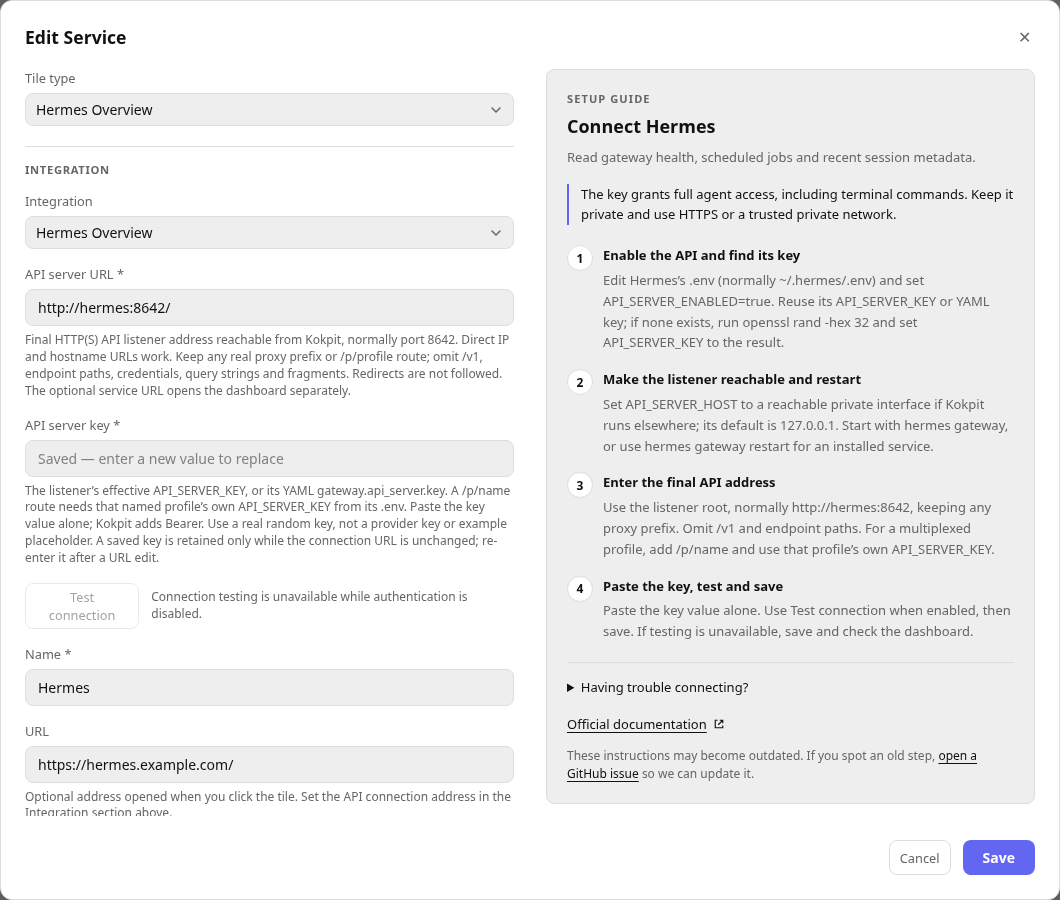
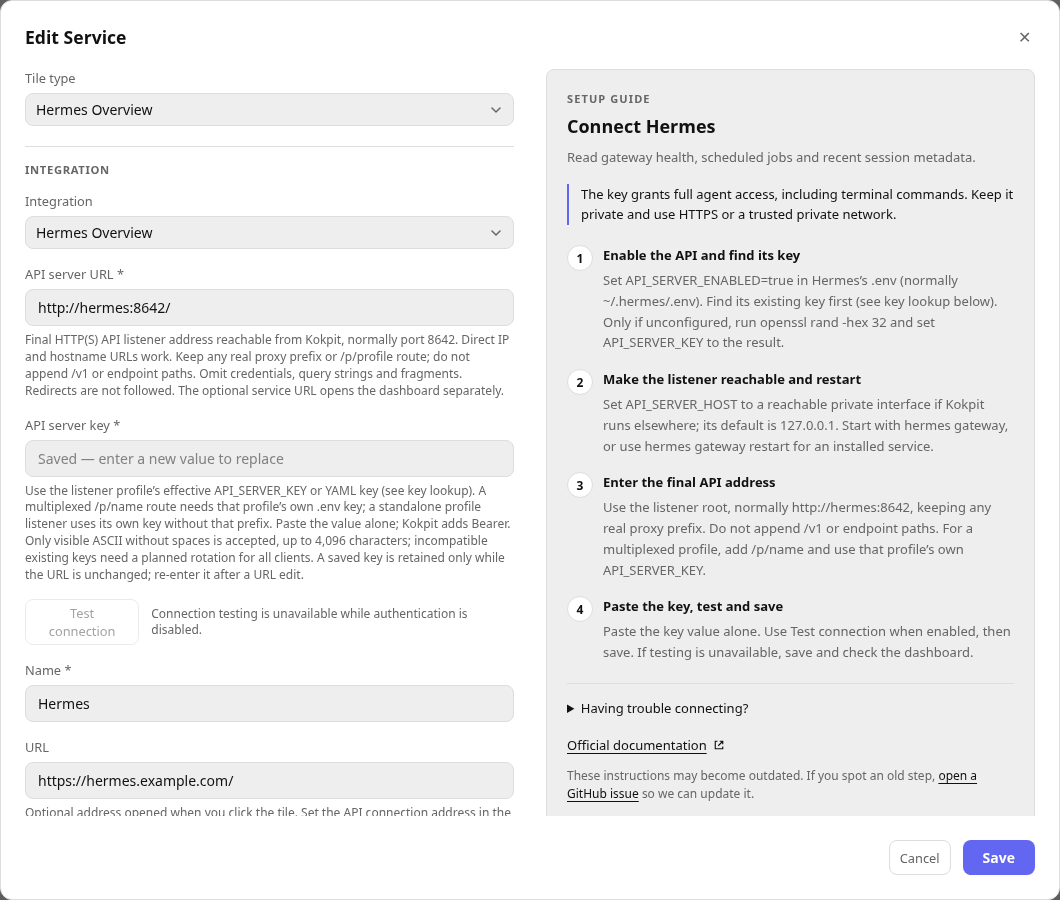
docs(hermes): clarify proxy paths and existing key lookup

diff --git a/src/integrations/hermes/setupGuide.ts b/src/integrations/hermes/setupGuide.ts
@@ -7,7 +7,7 @@ export const hermesSetupGuide: WidgetSetupGuide = {
   steps: [
     {
       title: "Enable the API and find its key",
-      description: "Edit Hermes’s .env (normally ~/.hermes/.env) and set API_SERVER_ENABLED=true. Reuse its API_SERVER_KEY or YAML key; if none exists, run openssl rand -hex 32 and set API_SERVER_KEY to the result.",
+      description: "Set API_SERVER_ENABLED=true in Hermes’s .env (normally ~/.hermes/.env). Find its existing key first (see key lookup below). Only if unconfigured, run openssl rand -hex 32 and set API_SERVER_KEY to the result.",
     },
     {
       title: "Make the listener reachable and restart",
@@ -15,7 +15,7 @@ export const hermesSetupGuide: WidgetSetupGuide = {
     },
     {
       title: "Enter the final API address",
-      description: "Use the listener root, normally http://hermes:8642, keeping any proxy prefix. Omit /v1 and endpoint paths. For a multiplexed profile, add /p/name and use that profile’s own API_SERVER_KEY.",
+      description: "Use the listener root, normally http://hermes:8642, keeping any real proxy prefix. Do not append /v1 or endpoint paths. For a multiplexed profile, add /p/name and use that profile’s own API_SERVER_KEY.",
     },
     {
       title: "Paste the key, test and save",
@@ -25,7 +25,11 @@ export const hermesSetupGuide: WidgetSetupGuide = {
   troubleshooting: [
     {
       title: "Which key should I copy?",
-      description: "Use the API server key, not an OpenAI, Anthropic or other model-provider key. For the default listener, read API_SERVER_KEY from Hermes’s .env or gateway.api_server.key from config.yaml; environment settings take precedence. Paste the value without API_SERVER_KEY=, Bearer or surrounding quotes. Changing this upstream key affects its other API clients too.",
+      description: "Use the API server key, not a model-provider key. In the selected gateway’s actual Hermes home, check API_SERVER_KEY in .env and config.yaml key values under gateway.api_server, gateway.platforms.api_server or platforms.api_server. Environment settings take precedence. Reuse the effective compatible key; generate one only if all are unset. Paste the value without API_SERVER_KEY=, Bearer or quotes. Changing it affects other API clients too.",
+    },
+    {
+      title: "An existing key is rejected when saving",
+      description: "Kokpit trims surrounding whitespace, then accepts only visible ASCII characters without spaces, up to 4,096 characters. Hermes can accept some keys that Kokpit cannot, such as keys with embedded spaces or Unicode. Do not remove characters from the key: plan a deliberate rotation in Hermes and update its other clients, or keep the current key and leave this widget unconfigured. A new openssl rand -hex 32 key fits Kokpit’s format.",
     },
     {
       title: "The listener will not start or cannot be reached",
@@ -33,11 +37,11 @@ export const hermesSetupGuide: WidgetSetupGuide = {
     },
     {
       title: "401 or 403 for a profile",
-      description: "A /p/name route requires that named profile’s own API_SERVER_KEY from ~/.hermes/profiles/name/.env. The default profile’s key is rejected there; unprefixed routes and /p/default use the default key. After changing settings, restart the gateway that owns the listener. With the same connection URL, an untouched saved key is retained; URL edits require re-entering it.",
+      description: "On the default multiplexing listener, /p/name requires that profile’s own API_SERVER_KEY, normally in ~/.hermes/profiles/name/.env; unprefixed routes and /p/default use the default key. A standalone named-profile listener on its own port uses that profile’s effective key even without /p/name. Restart the gateway that owns the listener after changes. A saved key is retained only while the URL stays unchanged; URL edits require re-entry.",
     },
     {
       title: "404, HTML or a redirect error",
-      description: "Use the final API listener address, including its configured API_SERVER_PORT and any real proxy/profile prefix. Remove /v1, /health and /api suffixes, query strings and fragments. Kokpit does not follow redirects, including proxy sign-in pages or HTTP-to-HTTPS redirects. Requests are server-to-server, so Kokpit does not need a CORS allowlist.",
+      description: "Use the final API listener address, its configured port and any real proxy/profile prefix. Omit appended endpoint paths such as /v1 or /health, but keep a configured proxy mount, including /api if that is the mount. For example, a base of https://host/api/ requests https://host/api/health/detailed. Omit queries and fragments. Redirects are not followed, including sign-in pages or HTTP-to-HTTPS redirects. Server-to-server requests need no CORS allowlist.",
     },
     {
       title: "Online, Degraded or unsupported sections",

diff --git a/src/integrations/hermes/widget.tsx b/src/integrations/hermes/widget.tsx
@@ -29,8 +29,8 @@ export function HermesWidget({ data, loading, error, footprint }: WidgetProps<He
 }
 
 const FIELDS: WidgetConfigField[] = [
-  { key: "url", label: "API server URL", type: "url", required: true, placeholder: "http://hermes:8642", description: "Final HTTP(S) API listener address reachable from Kokpit, normally port 8642. Direct IP and hostname URLs work. Keep any real proxy prefix or /p/profile route; omit /v1, endpoint paths, credentials, query strings and fragments. Redirects are not followed. The optional service URL opens the dashboard separately." },
-  { key: "api_key", label: "API server key", type: "password", required: true, description: "The listener’s effective API_SERVER_KEY, or its YAML gateway.api_server.key. A /p/name route needs that named profile’s own API_SERVER_KEY from its .env. Paste the key value alone; Kokpit adds Bearer. Use a real random key, not a provider key or example placeholder. A saved key is retained only while the connection URL is unchanged; re-enter it after a URL edit." },
+  { key: "url", label: "API server URL", type: "url", required: true, placeholder: "http://hermes:8642", description: "Final HTTP(S) API listener address reachable from Kokpit, normally port 8642. Direct IP and hostname URLs work. Keep any real proxy prefix or /p/profile route; do not append /v1 or endpoint paths. Omit credentials, query strings and fragments. Redirects are not followed. The optional service URL opens the dashboard separately." },
+  { key: "api_key", label: "API server key", type: "password", required: true, description: "Use the listener profile’s effective API_SERVER_KEY or YAML key (see key lookup). A multiplexed /p/name route needs that profile’s own .env key; a standalone profile listener uses its own key without that prefix. Paste the value alone; Kokpit adds Bearer. Only visible ASCII without spaces is accepted, up to 4,096 characters; incompatible existing keys need a planned rotation for all clients. A saved key is retained only while the URL is unchanged; re-enter it after a URL edit." },
 ];
 registerIntegration<HermesConfig>({ id: "hermes", connectionSchema: HermesConfigSchema, connectionFields: FIELDS, credentialScopeFields: ["url"] });
 registerWidget<HermesConfig, HermesData>({

diff --git a/docs/integration-setup-guidance-proposal.md b/docs/integration-setup-guidance-proposal.md
@@ -66,7 +66,7 @@ These are implementation plans based on the current registry, editor and fetcher
 | RSS / Atom | 1. Find the publisher's public RSS/Atom URL. 2. Enter the feed URL rather than a normal article/page URL. 3. Set the article limit. 4. Test/save. Explicitly state that authenticated/private feeds are unsupported. | HTML returned instead of XML; public HTTP(S) requirement; private addresses/embedded credentials blocked; malformed feeds. |
 | Calendar — CalDAV | 1. In the calendar provider, find the **calendar collection** URL. 2. Create an app password if supported. 3. Enter collection URL, username and password; leave Google API key empty. 4. Set time zone/window/limit, test and save. Include provider-specific examples rather than assuming all CalDAV menus match. | Discovery URL versus collection URL; app password; read access; recurring/all-day events; time-zone mismatch. |
 | Calendar — public Google | 1. Make the intended calendar public and copy **Calendar ID** from its integration settings. 2. In Google Cloud, choose/create a project and enable **Google Calendar API**. 3. Create an API key and restrict it to that API, using server-compatible restrictions. 4. Enter calendar ID and key, leaving CalDAV login blank. 5. Set options, test and save. | Private calendars unsupported by this key flow; API not enabled; browser-referrer restrictions on server requests; calendar ID versus iCal URL. |
-| Hermes | 1. Enable the API in Hermes's `.env` and reuse its effective configured key; generate a strong key locally only if unconfigured. 2. Configure a trusted reachable bind (default is loopback) and start/restart the gateway. 3. Enter the listener root, normally 8642, retaining any proxy/profile prefix and omitting `/v1`. 4. Paste the matching key, test and save. | Full agent privileges of the key; rejected placeholders/short keys; `.env` versus YAML precedence; profile-specific authentication; local-only binding; unsupported sections, readiness and activity scope. |
+| Hermes | 1. Enable the API in Hermes's `.env` and reuse its effective configured key; generate a strong key locally only if unconfigured. 2. Configure a trusted reachable bind (default is loopback) and start/restart the gateway. 3. Enter the listener root, normally 8642, retaining any real proxy/profile prefix without appending `/v1`. 4. Paste the matching key, test and save. | Full agent privileges of the key; rejected placeholders/short keys; `.env` versus YAML precedence; profile-specific authentication; local-only binding; unsupported sections, readiness and activity scope. |
 | Search | 1. Choose a search provider. 2. Enter its search endpoint. 3. Set its query parameter (usually `q`) and optional display name. 4. Choose the new-tab behavior and save. State that searches run in the browser without an API key. | Provider endpoint versus homepage; wrong parameter; existing query parameters; credentials/fragments disallowed. |
 
 ## Per-widget field and option plans
@@ -105,7 +105,7 @@ Each row is a separate rollout item. Connection fields inherit the corresponding
 | Weather (`weather`) | `latitude`, `longitude`: correct order/ranges and location detection; `imperial`: °F/mph versus °C/km/h. Explain no key, tile-name location label and refresh. |
 | RSS / Atom (`rss`) | `feed_url`: public feed endpoint, no credentials/private addresses; `max_items`: 1–50 items, default 10, publisher ordering. |
 | Calendar (`calendar`) | `calendar`: CalDAV collection URL or public Google ID; `username`/`password`: CalDAV only; `api_key`: Google only. `days_ahead`: 1–30/default 7; `max_items`: 1–50/default 10; `timezone`: IANA name/default UTC; explain all-day dates. Both setup paths appear in one guide. |
-| Hermes Overview (`hermes-overview`) | `url`: final HTTP(S) API listener, normally 8642, with an optional real profile/proxy prefix and no redirects or `/v1` suffix. `api_key`: matching listener/profile key, with saved-key retention limited to the same URL. Explain Default 3×4 versus Wide 6×3, thirty-second polling, ten top-level sessions and metadata-only activity. |
+| Hermes Overview (`hermes-overview`) | `url`: final HTTP(S) API listener, normally 8642, with an optional real profile/proxy prefix, no redirects and no appended endpoint suffixes. `api_key`: matching listener/profile key, with saved-key retention limited to the same URL. Explain Default 3×4 versus Wide 6×3, thirty-second polling, ten top-level sessions and metadata-only activity. |
 | Search (`search`) | `search_url`: provider search endpoint and retained parameters; `query_parameter`: query key/default `q`; `engine_name`: optional label/fallback; `new_tab`: where results open. No connection test or polling is needed. |
 | System Stats (`system-stats`) — local companion | No external service or key. Explain `proc_path` host bind mount; `disk_path` measured filesystem; `interface` or non-loopback aggregate; `docker_socket_path` only for selected Docker stats; `size_defaults`; and `fields`, including explicit empty selection. Add as a local setup guide after the external pilot pattern is agreed. |
 
@@ -227,8 +227,8 @@ Checked 23 October 2026 against the official [user settings guide](https://docs.
 
 Checked 23 October 2026 against the official [API server guide](https://hermes-agent.nousresearch.com/docs/user-guide/features/api-server), [profiles](https://hermes-agent.nousresearch.com/docs/user-guide/profiles), [gateway routing](https://hermes-agent.nousresearch.com/docs/user-guide/multi-profile-gateways) and [OpenSSL rand manual](https://docs.openssl.org/3.5/man1/openssl-rand/), with exact settings and startup/authentication behavior checked in stable [Hermes v0.22.5](https://github.com/NousResearch/hermes-agent/tree/v0.22.5).
 
-- **Finding or creating the key:** the [API guide source](https://github.com/NousResearch/hermes-agent/blob/v0.22.5/website/docs/user-guide/features/api-server.md) documents `.env` values, the equivalent `gateway.api_server` YAML block and environment precedence. Existing keys are reused; a new key is generated only when unconfigured, avoiding an accidental rotation for other clients. The [API server startup guard](https://github.com/NousResearch/hermes-agent/blob/v0.22.5/gateway/platforms/api_server.py) rejects missing, placeholder or under-16-character keys and explicitly recommends `openssl rand -hex 32`. The OpenSSL manual confirms that this produces 32 random bytes encoded as hexadecimal. The widget is read-only, while the key also authorizes the agent's action endpoints and full toolset.
-- **Listener and profiles:** the API is disabled by default, port 8642 and bind 127.0.0.1. Instructions make remote/container reachability explicit and prefer trusted interfaces, restricted clients and HTTPS/private networking. The [gateway CLI](https://github.com/NousResearch/hermes-agent/blob/v0.22.5/hermes_cli/subcommands/gateway.py) supports the default foreground gateway and installed-service restart; the guide does not prescribe force/interrupt flags or a per-profile restart topology. A multiplexed named prefix requires that named profile's own `.env` key; default credentials work only on unprefixed/default routes. Profiles can also use separately configured listener ports.
-- **Kokpit connection behavior:** checked the schema, fetcher and renderer. URL is bounded to 2,048 characters and accepts HTTP(S) without embedded credentials, query or fragment. The trimmed, nonempty key accepts visible ASCII up to 4,096 characters. Requests add Bearer automatically, preserve the configured prefix and never follow redirects. Saved-key reuse requires an unchanged URL. The API listener is distinct from the tile's optional dashboard launch URL; CORS configuration is unnecessary for these server-side requests.
+- **Finding or creating the key:** the [API guide source](https://github.com/NousResearch/hermes-agent/blob/v0.22.5/website/docs/user-guide/features/api-server.md) documents `.env` values, the equivalent `gateway.api_server`, `gateway.platforms.api_server` and `platforms.api_server` YAML blocks and environment precedence. Existing keys are reused; a new key is generated only when unconfigured, avoiding an accidental rotation for other clients. The [API server startup guard](https://github.com/NousResearch/hermes-agent/blob/v0.22.5/gateway/platforms/api_server.py) rejects missing, placeholder or under-16-character keys and explicitly recommends `openssl rand -hex 32`. The OpenSSL manual confirms that this produces 32 random bytes encoded as hexadecimal. The widget is read-only, while the key also authorizes the agent's action endpoints and full toolset.
+- **Listener and profiles:** the API is disabled by default, port 8642 and bind 127.0.0.1. Instructions make remote/container reachability explicit and prefer trusted interfaces, restricted clients and HTTPS/private networking. The [gateway CLI](https://github.com/NousResearch/hermes-agent/blob/v0.22.5/hermes_cli/subcommands/gateway.py) supports the default foreground gateway and installed-service restart; the guide does not prescribe force/interrupt flags or a per-profile restart topology. On the default multiplexing listener, a named prefix requires that named profile's own `.env` key, while unprefixed/default routes use the default key. A standalone named-profile listener on a separate port uses its own effective key on unprefixed routes.
+- **Kokpit connection behavior:** checked the schema, fetcher and renderer. URL is bounded to 2,048 characters and accepts HTTP(S) without embedded credentials, query or fragment. The trimmed, nonempty key accepts visible ASCII without spaces up to 4,096 characters. Guidance explains that some upstream-valid keys with embedded spaces or Unicode need an intentional rotation coordinated with other clients, rather than altering the pasted value. Requests add Bearer automatically, preserve the configured prefix (including a real `/api` proxy mount) and never follow redirects. Saved-key reuse requires an unchanged URL. The API listener is distinct from the tile's optional dashboard launch URL; CORS configuration is unnecessary for these server-side requests.
 - **Metrics and options:** Kokpit requests detailed health with a legacy liveness fallback, jobs including disabled entries, and ten top-level sessions. It projects bounded metadata rather than prompts/transcripts/raw errors. Scheduled counts exclude disabled/paused/running/terminal jobs; failures include failed delivery/configuration and scheduling errors, rather than lifetime totals. API runs covers the listener, while recent sessions are activity records. Ready needs detailed readiness; Online is a liveness fallback with unknown runs. Unsupported section endpoints and transient/invalid data remain distinct. Default 3×4 uses one activity column; Wide 6×3 uses two with the same scroll region. Refresh is thirty seconds, with no section/limit options.
 - The shared outdated-instructions/GitHub-issue notice applies. Previews use isolated configuration and a dummy key; live Hermes connectivity has not been tested. Schemas, fetching, rendering and widget geometry remain unchanged.

diff --git a/README.md b/README.md
@@ -774,15 +774,15 @@ Add a **Hermes Overview** tile and enter the **API server URL** (for example,
 API listener with `API_SERVER_ENABLED=true` and start its gateway. Kokpit must be
 able to reach that listener from its own container; `localhost` refers to the
 Kokpit container. A reverse-proxy base path or Hermes `/p/<profile>` prefix is
-preserved. Use the listener root, rather than appending `/v1`.
+preserved. Use the listener root, rather than appending endpoint routes such as `/v1` or `/health`. Retain real proxy mounts, including `/api` when that is the configured prefix: a base of `https://host/api/` fetches `https://host/api/health/detailed`.
 
-Add/Edit Service includes numbered instructions, field help, troubleshooting and the shared outdated-instructions/GitHub-issue notice. On the Hermes host, edit its `.env` (normally `~/.hermes/.env`) and enable the API. Reuse the effective existing `API_SERVER_KEY`, or the existing `gateway.api_server.key` in `config.yaml`; environment settings take precedence. If no key is configured, generate one locally with `openssl rand -hex 32` and save its output as `API_SERVER_KEY`. Current Hermes rejects placeholder keys and keys under 16 characters. Paste the bare value into Kokpit, without the variable name, `Bearer` or quotes. This is the Hermes API server key, not a model-provider credential. The key also permits agent actions, including terminal commands; keep it private and allow only trusted clients over HTTPS or a private network.
+Add/Edit Service includes numbered instructions, field help, troubleshooting and the shared outdated-instructions/GitHub-issue notice. On the Hermes host, edit its `.env` (normally `~/.hermes/.env`) and enable the API. For the selected gateway profile, look for the effective existing `API_SERVER_KEY` in its `.env`, or a `key` under `gateway.api_server`, `gateway.platforms.api_server` or `platforms.api_server` in `config.yaml`; environment settings take precedence. Only when all are unset, generate a key locally with `openssl rand -hex 32` and save its output as `API_SERVER_KEY`. Current Hermes rejects placeholder keys and keys under 16 characters. Paste the bare value into Kokpit, without the variable name, `Bearer` or quotes. Kokpit trims surrounding whitespace and accepts only visible ASCII without spaces, up to 4,096 characters. Hermes can accept keys with embedded spaces or Unicode that Kokpit rejects; do not alter the pasted value. Such keys require a deliberate upstream rotation coordinated with other clients, or leaving the widget unconfigured. This is the Hermes API server key, not a model-provider credential. The key also permits agent actions, including terminal commands; keep it private and allow only trusted clients over HTTPS or a private network.
 
-The listener defaults to `API_SERVER_HOST=127.0.0.1` and `API_SERVER_PORT=8642`. If Kokpit runs elsewhere, configure a trusted private bind and any required container port publication before starting/restarting the gateway. Start with `hermes gateway`; for an installed service use `hermes gateway restart` after configuration changes. For multiplexed `/p/name` routes, configure and copy that profile's **own** `API_SERVER_KEY` from `~/.hermes/profiles/name/.env`; the default key cannot authenticate a named prefix. Unprefixed routes and `/p/default` use the default key. No CORS allowlist is needed for Kokpit's server-to-server requests. Use **Test connection** when enabled, then save; otherwise save and check the dashboard. See the official [API server guide](https://hermes-agent.nousresearch.com/docs/user-guide/features/api-server), [profile documentation](https://hermes-agent.nousresearch.com/docs/user-guide/profiles) and [OpenSSL random generator](https://docs.openssl.org/3.5/man1/openssl-rand/).
+The listener defaults to `API_SERVER_HOST=127.0.0.1` and `API_SERVER_PORT=8642`. If Kokpit runs elsewhere, configure a trusted private bind and any required container port publication before starting/restarting the gateway. Start with `hermes gateway`; for an installed service use `hermes gateway restart` after configuration changes. For multiplexed `/p/name` routes, configure and copy that profile's **own** `API_SERVER_KEY` from `~/.hermes/profiles/name/.env`; the default key cannot authenticate a named prefix. On the default multiplexing listener, unprefixed routes and `/p/default` use the default key. A standalone named-profile listener on a separate port uses that profile’s effective key even on unprefixed routes. No CORS allowlist is needed for Kokpit's server-to-server requests. Use **Test connection** when enabled, then save; otherwise save and check the dashboard. See the official [API server guide](https://hermes-agent.nousresearch.com/docs/user-guide/features/api-server), [profile documentation](https://hermes-agent.nousresearch.com/docs/user-guide/profiles) and [OpenSSL random generator](https://docs.openssl.org/3.5/man1/openssl-rand/).
 
 | Field | Required | Description |
 | --- | --- | --- |
-| `url` | Yes | Final HTTP(S) API listener root, normally port 8642, reachable from Kokpit; retain a real proxy/profile prefix, omit `/v1` and endpoint suffixes, credentials, queries and fragments |
+| `url` | Yes | Final HTTP(S) API listener root, normally port 8642, reachable from Kokpit; retain a real proxy/profile prefix, do not append `/v1` or endpoint suffixes, and omit credentials, queries and fragments |
 | `api_key` | Yes | Effective API server key for the selected listener/profile, sent as `Authorization: Bearer`; an untouched saved key is retained only while the connection URL stays unchanged |
 
 Default **3×4** and Wide **6×3** show readiness, active **API** runs, the next
